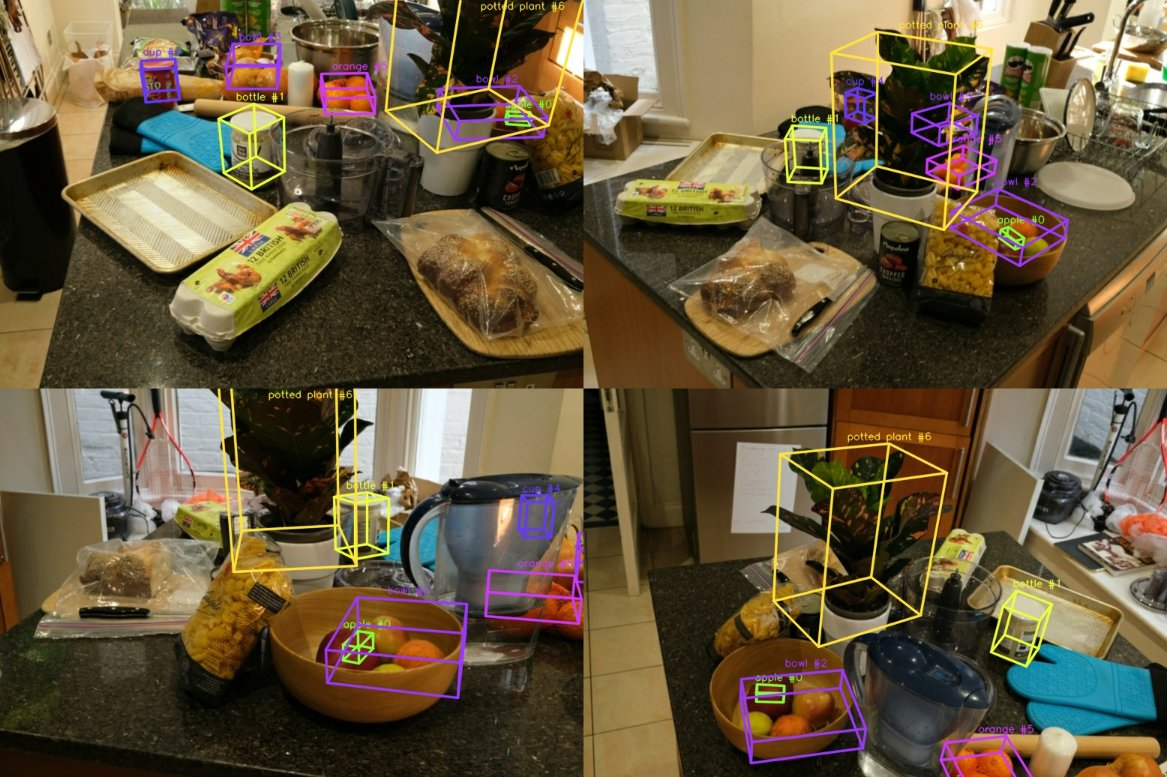
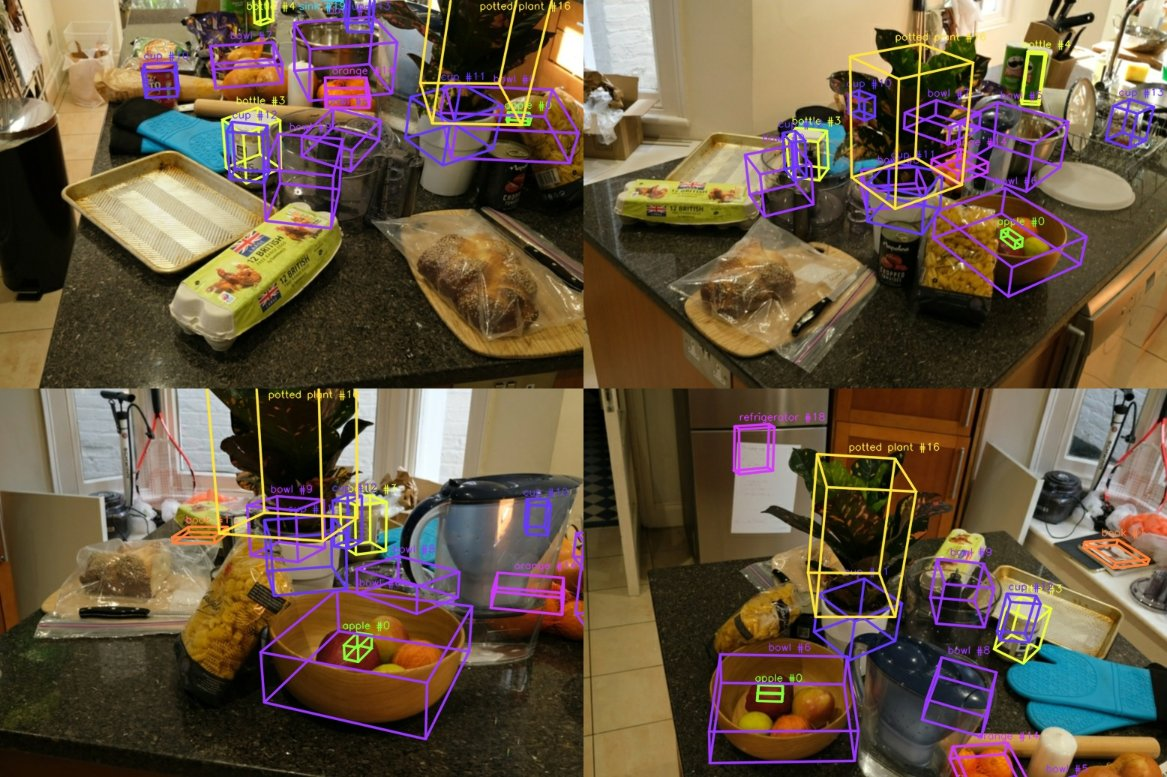
Make 3D clustering adapt to local point density and refine duplicate handling
Verified end to end on a second scene (kitchen): a single global clustering
radius shattered plain objects there. Also default to sequential matching,
since pycolmap wheels match on CPU.

diff --git a/src/mv3dp/fusion/multiview.py b/src/mv3dp/fusion/multiview.py
@@ -94,14 +94,18 @@ def radius_clusters(points: np.ndarray, radius: float) -> list[np.ndarray]:
     return sorted((np.array(g) for g in uf.groups()), key=len, reverse=True)
 
 
-def median_spacing(points: np.ndarray, max_samples: int = 20000, seed: int = 0) -> float:
-    if len(points) < 2:
-        return 1.0
+def local_spacing(tree: cKDTree, points: np.ndarray, k: int = 4, max_samples: int = 5000, seed: int = 0) -> float:
+    """Median distance from ``points`` to their k-th nearest neighbour in the full cloud.
+
+    This measures the SfM point density *around* an object: plain surfaces get
+    few points and well-textured ones many, so one global radius would either
+    shatter plain objects or glue textured ones to their surroundings.
+    """
     sample = points
     if len(points) > max_samples:
         sample = points[np.random.default_rng(seed).choice(len(points), max_samples, replace=False)]
-    d, _ = cKDTree(points).query(sample, k=2)
-    return float(np.median(d[:, 1]))
+    d, _ = tree.query(sample, k=k + 1)
+    return float(np.median(d[:, k]))
 
 
 @dataclass
@@ -188,9 +192,9 @@ def fuse_detections(
         if n >= cfg.min_shared_points and overlap >= cfg.min_overlap_ratio:
             uf.union(ga, gb)
 
-    # 3. Spatially split each component into instances.
-    all_xyz = np.array([p.xyz for p in rec.points3D.values()])
-    radius = cfg.cluster_radius_factor * median_spacing(all_xyz)
+    # 3. Spatially split each component into instances, with a clustering
+    # radius adapted to the local point density.
+    tree = cKDTree(np.array([p.xyz for p in rec.points3D.values()]))
     G = frame_from_up(estimate_up_vector(list(cams.values())))
 
     candidates: list[ObjectInstance] = []
@@ -203,6 +207,7 @@ def fuse_detections(
         if len(pids) < cfg.min_points:
             continue
         xyz = np.array([rec.points3D[int(p)].xyz for p in pids])
+        radius = cfg.cluster_radius_factor * local_spacing(tree, xyz)
         for cluster in radius_clusters(xyz, radius):
             if len(cluster) < cfg.min_points:
                 break

diff --git a/src/mv3dp/config.py b/src/mv3dp/config.py
@@ -15,7 +15,10 @@ class SparseConfig:
     max_image_size: int = 1600
     max_num_features: int = 8192
     # Exhaustive matching up to this many images, sequential matching beyond.
-    exhaustive_max_images: int = 300
+    # pip wheels of pycolmap match on CPU, where exhaustive matching of a few
+    # hundred images takes over an hour; sequential matching suits video-like
+    # captures such as Mip-NeRF 360 and takes minutes.
+    exhaustive_max_images: int = 100
     sequential_overlap: int = 20
     use_gpu: bool = True
     # Every N-th image (sorted by name) is held out of SfM for pose evaluation,
@@ -67,9 +70,10 @@ class FusionConfig:
     # observing it put it inside a mask of that class.
     point_vote_ratio: float = 0.5
     min_point_votes: int = 2
-    # Spatial clustering radius, as a multiple of the median point spacing.
-    cluster_radius_factor: float = 4.0
-    box_percentile: float = 2.0
+    # Spatial clustering radius, as a multiple of the local SfM point spacing
+    # (median distance to the 4th nearest neighbour around the object).
+    cluster_radius_factor: float = 2.5
+    box_percentile: float = 5.0
     use_dense_points: bool = True
     # Same-class instances are merged when this fraction of one's points lies
     # inside the other's box (fragments of one object, e.g. a plant's leaves).

diff --git a/README.md b/README.md
@@ -7,7 +7,7 @@ find the objects in it with a deep learning detector, place each one as a labell
 ![3D boxes fused from multi-view detections, projected back into the images](docs/images/counter_3d_boxes.jpg)
 
 *Mip-NeRF 360 "counter": every box is a fused 3D object (bowl, apple, orange, plant,
-jar…) projected back into a few of the input views.*
+jar…) projected back into some of the input views.*
 
 Runs natively on **Windows** (and Linux) in a plain Python virtual environment.
 No ROS is needed. An NVIDIA GPU speeds up YOLO but is optional.
@@ -43,24 +43,40 @@ Some design points:
   is excluded from reconstruction. Object poses are estimated in those unseen images
   and compared with the dataset's reference poses after a 7-DoF Umeyama alignment.
 
-## Results (Mip-NeRF 360 "counter", 1/4 resolution)
+## Results (Mip-NeRF 360, 1/4 resolution, every stage run from scratch)
 
-| | |
-|---|---|
-| Images registered by SfM | 210 / 210 training views |
-| Camera accuracy vs. reference | rotation error 0.08° median, ATE 0.04 % of scene size |
-| Dense point cloud | ~700 k points |
-| Objects found | 7, by YOLO label: bowl ×2, cup, bottle (a jar), apple, orange (a net of oranges), potted plant |
-| 6DoF pose on held-out views | PnP solved 41/43 queries, median rotation error 0.5°, median ADD 2.6 % of object diameter |
-| ADD < 10 % of diameter | 93 % of solved queries (88 % of all queries) |
+| | counter | kitchen |
+|---|---|---|
+| Images registered by SfM | 210 / 210 | 244 / 244 |
+| Camera rotation error vs. reference (median) | 0.08° | 0.18° |
+| Camera position error (ATE, % of scene size) | 0.04 % | 0.14 % |
+| Dense point cloud | ~0.7 M points | ~1.2 M points |
+| Objects found (YOLO labels) | 20: bowls, cups, bottles/jars, apple, orange net, plant, sink, oven, fridge… | 14: Lego "truck", chairs, handbag, table, bottles, cup, plants… |
+| 6DoF pose, held-out views: PnP solved | 63 / 67 queries | 21 / 22 queries |
+| Median rotation error / median ADD | 0.53° / 2.2 % of diameter | 0.23° / 0.9 % of diameter |
+| ADD < 10 % of diameter | 89 % of solved (84 % of all) | 95 % of solved (91 % of all) |
+
+![Kitchen scene: fused 3D boxes](docs/images/kitchen_3d_boxes.jpg)
 
 ![6DoF object poses estimated in held-out test images](docs/images/counter_pose.jpg)
 
-*Held-out test images: estimated poses (green box and axes) and reference poses (red)
-are drawn on top of each other and almost coincide.*
+*Held-out test images from "counter": estimated poses (green box and axes) are drawn
+over the reference poses (red), which they almost completely hide.*
 
-The numbers come from `outputs/counter/metrics.json` after running the pipeline on
-CPU in a cloud container. Your numbers on a GPU machine may differ slightly.
+The numbers come from `outputs/<scene>/metrics.json` after a CPU-only run in a cloud
+container (SfM ≈ 6–12 min per scene, the rest a few minutes). Expect small
+differences on other machines.
+
+### Known limitations
+
+- Box quality is bounded by the 2D masks: when masks bleed onto the table, the
+  fused box grows a little. Box extents are trimmed at robust percentiles
+  (`fusion.box_percentile`), which also slightly shrinks thin parts (e.g. the
+  bulldozer's bucket in "kitchen").
+- Labels are COCO classes, so objects outside COCO get the nearest class (the Lego
+  bulldozer in "kitchen" is a "truck"), and some background objects get wrong labels.
+- The pose stage locates objects by matching against the scene model. It needs the
+  same object instance as in the reconstruction, not just the same category.
 
 ## Setup
 
